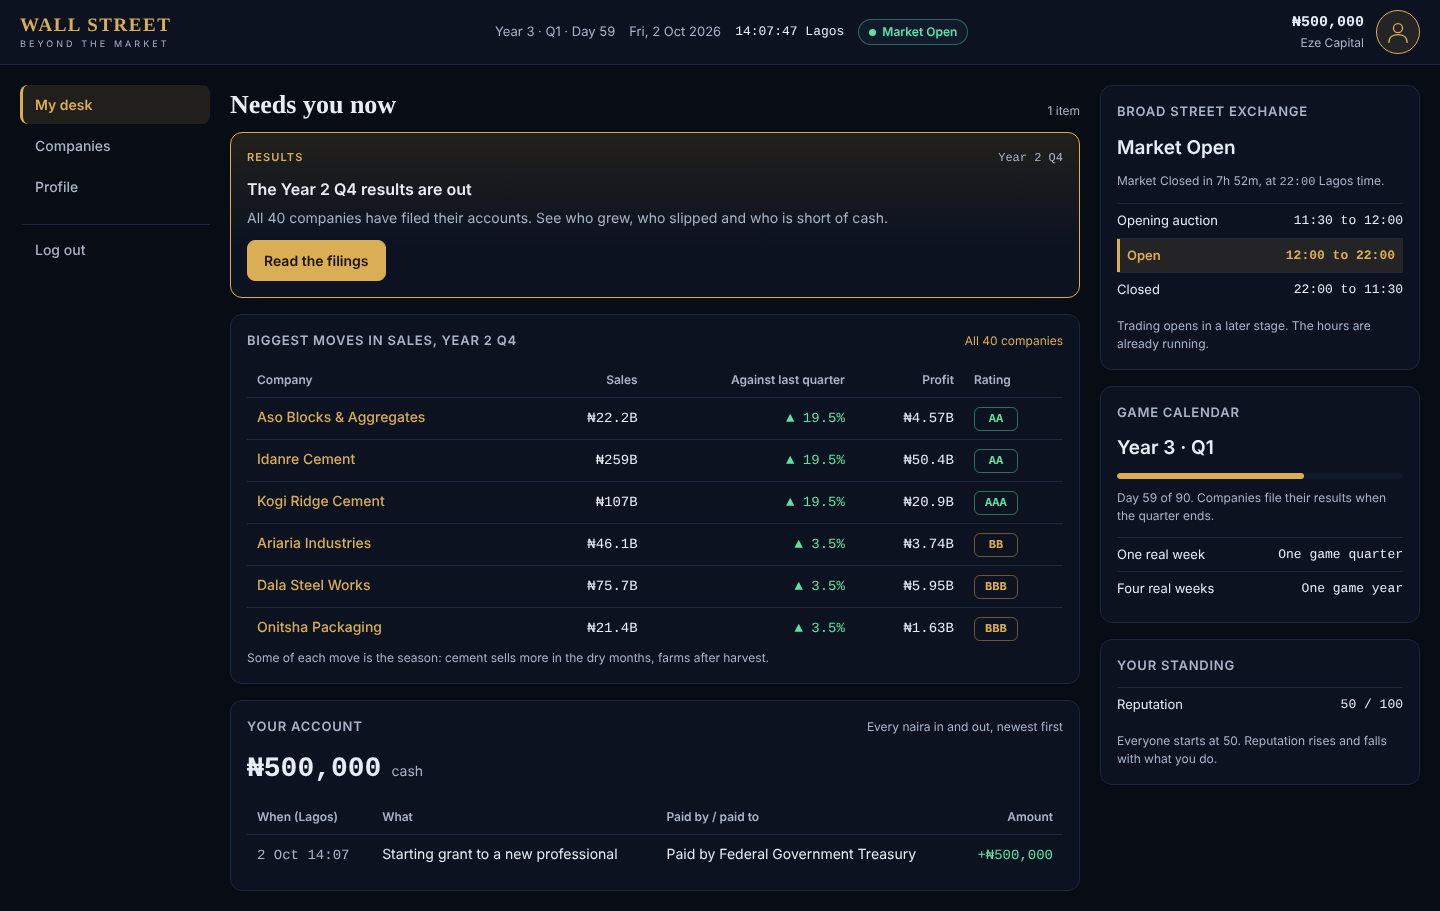
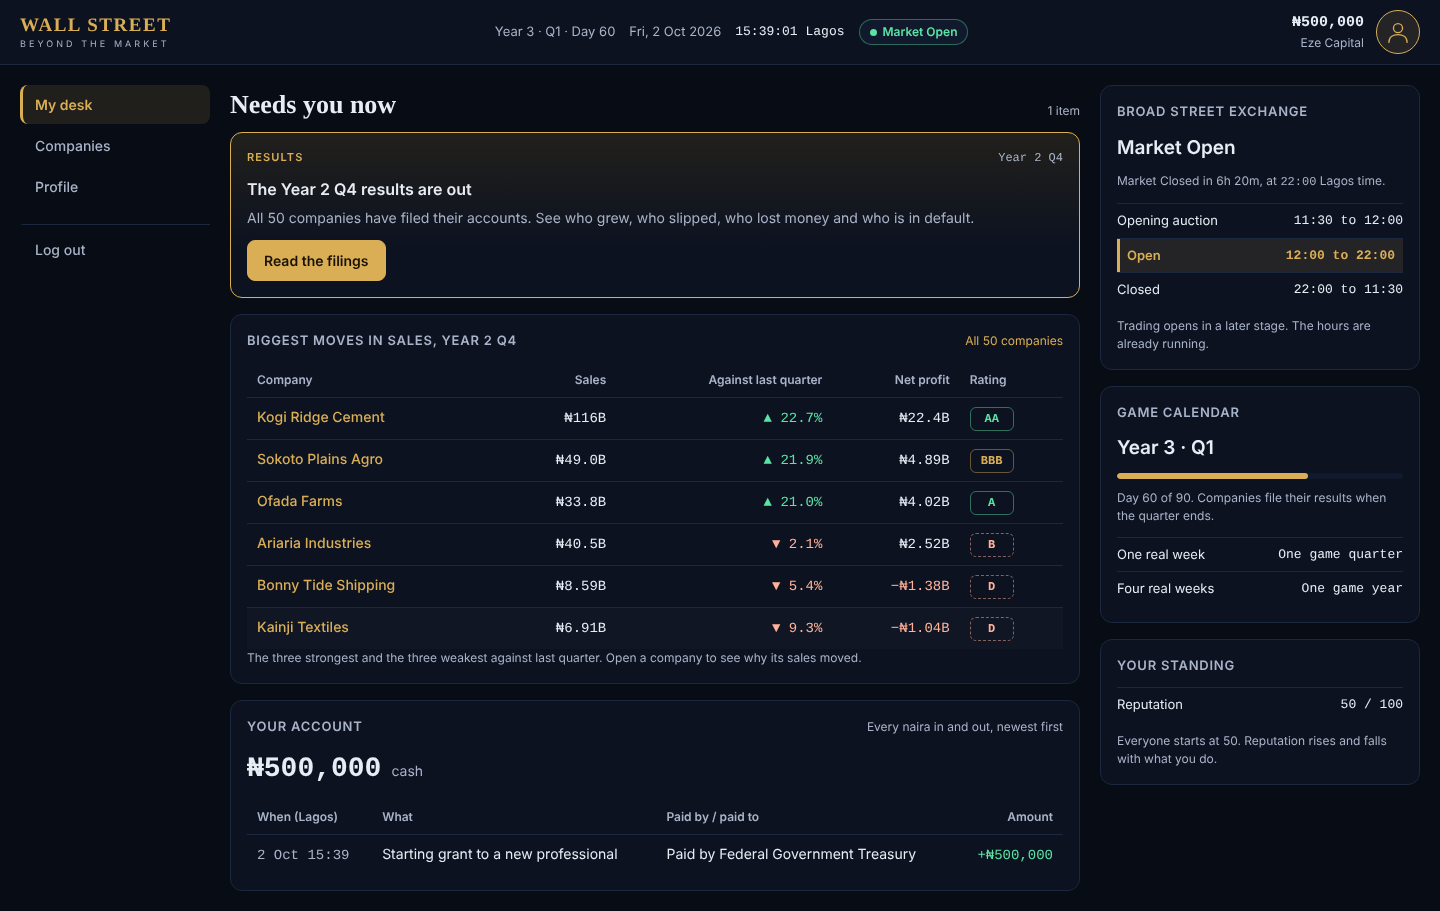
Close the loopholes found in the second review, and update the stage report
- An older world is given a random secret when upgraded; the database refuses
  a short one; quarters will not close without one
- A chosen world secret must be at least 32 characters
- Fortune can never make sales negative
- A missed loan repayment caps a rating at CCC
- A business that produces no EBITDA cannot rate highly, debts or no debts
- Older filings without EBITDA still show it
- Companies meant to be shrinking now shrink

diff --git a/web/src/Company.tsx b/web/src/Company.tsx
@@ -251,8 +251,11 @@ export function CompanyRail({ ticker, onLoggedOut }: { ticker: string; onLoggedO
             </div>
             <div className="muted small">
               Owed to {debt.lender}. Interest {formatPercent(debt.annual_rate_bps)} a year.{" "}
-              {debt.repayment === "bullet" ? "Repaid in one go in " : "Repaid a little each quarter until "}
-              {periodLabel(debt.maturity_period)}.
+              {debt.maturity_period <= latest.period
+                ? debt.maturity_period <= 0
+                  ? "It should have been repaid before the game began, and has not been."
+                  : `It should have been repaid by ${periodLabel(debt.maturity_period)}, and has not been.`
+                : `${debt.repayment === "bullet" ? "Repaid in one go in" : "Repaid a little each quarter until"} ${periodLabel(debt.maturity_period)}.`}
             </div>
           </div>
         ))}

diff --git a/tests/test_loopholes.py b/tests/test_loopholes.py
@@ -622,3 +622,81 @@ def test_the_database_itself_allows_one_player_per_mailbox(client, player, db):
             " VALUES ('Ada+2@example.com', 'ada@example.com', 'Copy', 'copy', 'x', now())"
         )
     assert refused.value.diag.constraint_name == "players_email_key_unique"
+
+
+# ---------------------------------------------------------------------------
+# Good and bad quarters: can a player know next quarter in advance?
+# (Second independent review, 2 October 2026.)
+# ---------------------------------------------------------------------------
+
+def test_a_world_cannot_be_created_with_a_short_guessable_secret(db):
+    from simulation import genesis
+    from tests.conftest import WORLD_START
+    with psycopg_connect_empty() as empty:
+        for weak in ("", "7", "password", "a" * 31):
+            if weak == "":
+                continue                                       # empty means "choose a random one"
+            with pytest.raises(ValueError):
+                genesis.create_world(empty, WORLD_START, weak)
+        assert empty.execute("SELECT count(*) FROM world_state").fetchone()[0] == 0
+
+
+def psycopg_connect_empty():
+    """A connection to a database that has the tables but no world yet."""
+    import psycopg
+    from tests.conftest import _TEMPLATES, _admin, _recreate, _url
+    name = "wsbm_test_no_world"
+    with _admin() as admin:
+        _recreate(admin, name, _TEMPLATES["empty"])
+    return psycopg.connect(_url(name), autocommit=True)
+
+
+def test_a_world_made_without_a_chosen_secret_gets_a_long_random_one():
+    from simulation import genesis
+    from tests.conftest import WORLD_START
+    seeds = []
+    for _ in range(2):
+        with psycopg_connect_empty() as empty:
+            genesis.create_world(empty, WORLD_START)
+            seeds.append(empty.execute("SELECT fortune_seed FROM world_state").fetchone()[0])
+    assert all(len(seed) >= 32 for seed in seeds) and seeds[0] != seeds[1]
+
+
+def test_the_database_refuses_a_world_with_a_short_secret(db):
+    with psycopg_connect_empty() as empty:
+        with pytest.raises(Exception) as refused:
+            empty.execute("INSERT INTO world_state (world_start, company_tax_bps, fortune_seed) VALUES (now(), 3000, 'short')")
+        assert refused.value.diag.constraint_name == "world_secret_is_long"
+
+
+def test_a_world_from_before_fortunes_existed_is_given_a_secret_when_it_is_upgraded():
+    """Without this, an older world's fortunes could be worked out from the game's code alone."""
+    import psycopg
+    from pathlib import Path
+    from tests.conftest import _admin, _recreate, _url
+    name = "wsbm_test_no_world"
+    with _admin() as admin:
+        _recreate(admin, name)
+    migrations = sorted(Path("database/migrations").glob("*.sql"))
+    with psycopg.connect(_url(name), autocommit=True) as old:
+        for path in migrations[:4]:
+            old.execute(path.read_text())
+        old.execute("INSERT INTO world_state (world_start, company_tax_bps) VALUES (now(), 3000)")
+        old.execute(migrations[4].read_text())
+        assert len(old.execute("SELECT fortune_seed FROM world_state").fetchone()[0]) >= 32
+
+
+def test_quarters_cannot_be_closed_for_a_world_with_no_secret(db):
+    from simulation import quarters
+    with pytest.raises(ledger.LedgerError):
+        quarters._close_period(db, 1, 3000, "")
+
+
+def test_fortune_can_never_make_sales_negative(db, monkeypatch):
+    from simulation import quarters
+    from simulation import world_data
+    from tests.conftest import after_quarters
+    monkeypatch.setattr(world_data, "SECTOR_VOLATILITY_BPS", 30_000)        # absurd on purpose
+    assert quarters.close_due_quarters(db, after_quarters(6)) == [1, 2, 3, 4, 5, 6]
+    assert db.execute("SELECT count(*) FROM company_results WHERE revenue < 0").fetchone()[0] == 0
+    assert ledger.audit(db) == []

diff --git a/simulation/companies.py b/simulation/companies.py
@@ -65,7 +65,7 @@ class Context:
     public: UUID
     treasury: UUID
     tax_bps: int
-    fortune_seed: str = ""
+    fortune_seed: str
 
 
 def fortune_bps(seed: str, subject: str, period: int, what: str, size_bps: int) -> int:
@@ -228,7 +228,9 @@ def close_company_quarter(conn: Connection, company: dict, period: int, ctx: Con
     sector_fortune = fortune_bps(ctx.fortune_seed, company["sector"], period, "demand", data.SECTOR_VOLATILITY_BPS)
     own_fortune = fortune_bps(ctx.fortune_seed, company["ticker"], period, "sales", company["volatility_bps"])
     cost_fortune = fortune_bps(ctx.fortune_seed, company["ticker"], period, "costs", company["volatility_bps"] // 3)
-    planned_revenue = apply_bps(apply_bps(apply_bps(base_revenue, season), BPS + sector_fortune), BPS + own_fortune)
+    planned_revenue = max(
+        apply_bps(apply_bps(apply_bps(base_revenue, season), BPS + sector_fortune), BPS + own_fortune), 0
+    )
     ledger.pay_up_to(
         conn, payer=ctx.public, receiver=account, wanted=planned_revenue,
         kind="customer_revenue", memo=f"{name}: sales to customers, {label}", period=period,
@@ -281,6 +283,7 @@ def close_company_quarter(conn: Connection, company: dict, period: int, ctx: Con
 
     # 5. Repay the debt that is due.
     principal_overdue = 0
+    repayments_missed = 0
     for debt in debts:
         due = principal_due(debt["principal_outstanding"], debt["repayment"], debt["maturity_period"], period)
         paid = ledger.pay_up_to(
@@ -296,7 +299,8 @@ def close_company_quarter(conn: Connection, company: dict, period: int, ctx: Con
         if period >= debt["maturity_period"]:
             principal_overdue += debt["principal_outstanding"] - paid
         if paid < due:
-            notes.append(f"It could not repay all of the debt due this quarter on {debt['name']}.")
+            repayments_missed += due - paid
+            notes.append(f"It could not repay all of the debt due this quarter on its {debt['name']}.")
 
     payables = _row(
         conn, "SELECT coalesce(sum(amount_outstanding), 0)::bigint AS owed FROM company_payables WHERE company_id = %s",
@@ -370,6 +374,7 @@ def close_company_quarter(conn: Connection, company: dict, period: int, ctx: Con
     drivers = {
         "revenue": _revenue_causes(company, season, sector_fortune, own_fortune, revenue, planned_revenue),
         "notes": notes,
+        "repayments_missed": repayments_missed,
     }
 
     result = {
@@ -461,6 +466,8 @@ def build_figures(conn: Connection, company: dict, result: dict) -> dict:
         "notes": {
             "shares_in_issue": result["shares_in_issue"],
             "principal_overdue": result["principal_overdue"],
+            # Scheduled loan repayments it failed to make this quarter.
+            "repayments_missed": result["drivers"].get("repayments_missed", 0),
             "borrowings": debts,
             "why_revenue": result["drivers"]["revenue"],
             "management_notes": result["drivers"]["notes"],

diff --git a/simulation/credit.py b/simulation/credit.py
@@ -45,7 +45,7 @@ def rate(figures: dict, trailing: list[dict]) -> tuple[str, list[str]]:
     # Failures first. These override everything else.
     if figures["notes"]["principal_overdue"] > 0:
         return "D", ["Debt that has passed its repayment date is still unpaid."]
-    if equity <= 0:
+    if equity <= 0 or assets <= 0:
         return "D", ["It owes more than everything it owns."]
 
     reasons: list[str] = []
@@ -113,20 +113,30 @@ def rate(figures: dict, trailing: list[dict]) -> tuple[str, list[str]]:
 
     rating = next((name for floor, name in _BANDS if points >= floor), "CCC")
 
-    # Debt against EBITDA: how many years of what the business produces it would
-    # take to repay everything it has borrowed. Heavy debt caps the rating.
-    if trailing and not financial and borrowings > 0:
+    # EBITDA: what the business itself produces before interest, tax and wear.
+    if trailing:
         yearly_ebitda = sum(i.get("ebitda", i["operating_profit"] + i["depreciation"]) for i in income) * 4 // len(income)
         if yearly_ebitda <= 0:
-            rating = _cap(rating, "CCC")
-            reasons.append("Its business produces no cash before interest and tax (EBITDA), yet it has debts to service.")
-        else:
+            # A business that produces nothing cannot be highly rated, debts or no debts.
+            if borrowings > 0 and not financial:
+                rating = _cap(rating, "CCC")
+                reasons.append("Its business produces no cash before interest and tax (EBITDA), yet it has debts to service.")
+            else:
+                rating = _cap(rating, "B")
+                reasons.append("Its business produces no cash before interest and tax (EBITDA).")
+        elif borrowings > 0 and not financial:
+            # How many years of EBITDA it would take to repay everything it has borrowed.
             years = borrowings / yearly_ebitda
             reasons.append(f"Its borrowings equal {years:.1f} years of EBITDA.")
             if years > 6:
                 rating = _cap(rating, "B")
             elif years > 4:
                 rating = _cap(rating, "BB")
+
+    # A missed loan repayment is one step from default.
+    if figures["notes"].get("repayments_missed", 0) > 0:
+        rating = _cap(rating, "CCC")
+        reasons.insert(0, "It missed a loan repayment that fell due this quarter.")
 
     # Unpaid bills cap the rating, however strong the rest looks.
     if sheet["payables"] > 0 and SCALE.index(rating) < SCALE.index("CCC"):

diff --git a/simulation/world_data.py b/simulation/world_data.py
@@ -152,20 +152,20 @@ COMPANIES: tuple[Company, ...] = (
     # purpose, so that credit ratings run all the way from AAA to D from day one. ---
     # Already in default: a loan has passed its repayment date unpaid.
     Company("BTS", "Bonny Tide Shipping", "transport", PORT_HARCOURT, 40_000, lender="OBB",
-            trend_bps=-150, volatility_bps=900, cost_extra_bps=500, opex_times_bps=12_000,
+            trend_bps=-500, volatility_bps=900, cost_extra_bps=500, opex_times_bps=12_000,
             debt_times_bps=20_000, cash_times_bps=2_500, overdue_bps=3_000),
     Company("KTX", "Kainji Textiles", "manufacturing", KANO, 35_000, lender="ZCB",
-            trend_bps=-250, volatility_bps=800, cost_extra_bps=600, opex_times_bps=12_500,
+            trend_bps=-600, volatility_bps=800, cost_extra_bps=600, opex_times_bps=12_500,
             debt_times_bps=22_000, cash_times_bps=2_000, overdue_bps=2_500),
     # Behind on their bills.
     Company("ZRH", "Zuma Rock Hotels", "real_estate", ABUJA, 28_000, lender="HMB",
-            trend_bps=-50, volatility_bps=1_000, cost_extra_bps=400, opex_times_bps=14_000,
+            trend_bps=-450, volatility_bps=1_000, cost_extra_bps=400, opex_times_bps=14_000,
             debt_times_bps=16_000, cash_times_bps=1_500, unpaid_bills_bps=2_500),
     Company("OGA", "Oguta Airways", "transport", LAGOS, 120_000, lender="KCB",
             trend_bps=0, volatility_bps=1_200, cost_extra_bps=900, opex_times_bps=11_000,
             debt_times_bps=17_000, cash_times_bps=1_500, unpaid_bills_bps=2_000),
     Company("CPM", "Calabar Paper Mills", "manufacturing", ABA, 22_000, lender="OTB",
-            trend_bps=-200, volatility_bps=700, cost_extra_bps=900, opex_times_bps=12_000,
+            trend_bps=-550, volatility_bps=700, cost_extra_bps=900, opex_times_bps=12_000,
             debt_times_bps=15_000, cash_times_bps=2_000, unpaid_bills_bps=1_500),
     # Weak, but paying their way.
     Company("LFN", "Lekki Fibre Networks", "telecoms", LAGOS, 60_000, lender="IKB",
@@ -186,6 +186,7 @@ COMPANIES: tuple[Company, ...] = (
 
 # Whole sectors have good and bad quarters too: up to this far above or below trend.
 SECTOR_VOLATILITY_BPS = 300
+assert 0 <= SECTOR_VOLATILITY_BPS < 5_000
 
 # --- Opening money (design document, section 10) ---
 # The Central Bank issues the opening money. From then on, no new naira appears.

diff --git a/server/main.py b/server/main.py
@@ -402,7 +402,8 @@ def my_movements(
 # ---------------------------------------------------------------------------
 
 def _world(conn: Connection) -> dict | None:
-    return conn.execute("SELECT * FROM world_state").fetchone()
+    # Named columns only: the world's secret is never read into a request.
+    return conn.execute("SELECT world_start, last_closed_period FROM world_state").fetchone()
 
 
 @app.get("/api/world/clock", response_model=ClockResponse)
@@ -447,6 +448,14 @@ def _amounts_as_text(value, key: str | None = None):
     if isinstance(value, int) and not isinstance(value, bool) and key not in _NOT_AMOUNTS:
         return str(value)
     return value
+
+
+def _with_ebitda(figures: dict) -> dict:
+    """Filings made before EBITDA was filed still show it: it is worked out from what they did file."""
+    income = figures["income_statement"]
+    if "ebitda" not in income:
+        income["ebitda"] = income["operating_profit"] + income["depreciation"]
+    return figures
 
 
 @app.get("/api/companies", response_model=CompaniesResponse)
@@ -531,7 +540,7 @@ def get_company(
                 period=r["period"], period_label=clock.period_label(r["period"]), version=r["version"],
                 amended=r["version"] > 1, filed_by=r["filed_by"], filed_at=r["filed_at"],
                 credit_rating=r["credit_rating"], rating_reasons=r["rating_reasons"],
-                figures=_amounts_as_text(r["figures"]),
+                figures=_amounts_as_text(_with_ebitda(r["figures"])),
             )
             for r in reversed(filed)
         ],

diff --git a/tests/test_companies_api.py b/tests/test_companies_api.py
@@ -117,3 +117,18 @@ def test_nothing_private_leaks_through_the_company_pages(client, player):
     text = client.get("/api/companies").text + client.get("/api/companies/IKB").text
     for secret in ("ledger_totals", "base_revenue", "base_opex", "account_id", "password", "@example.com", "drivers"):
         assert secret not in text
+
+
+def test_a_filing_from_before_ebitda_was_filed_still_shows_it(client, player, db):
+    from psycopg.types.json import Jsonb
+    company_id = db.execute("SELECT id FROM companies WHERE ticker = 'IDC'").fetchone()[0]
+    figures = db.execute("SELECT figures FROM company_reports WHERE company_id = %s AND period = 8", (company_id,)).fetchone()[0]
+    expected = figures["income_statement"].pop("ebitda")
+    db.execute(
+        "INSERT INTO company_reports (company_id, period, version, figures, credit_rating, rating_reasons, filed_by)"
+        " VALUES (%s, 8, 2, %s, 'A', %s, 'Company management')", (company_id, Jsonb(figures), Jsonb(["Old style"])),
+    )
+    latest = client.get("/api/companies/IDC").json()["reports"][-1]
+    assert latest["version"] == 2 and latest["figures"]["income_statement"]["ebitda"] == str(expected)
+    listed = [c for s in client.get("/api/companies").json()["sectors"] for c in s["companies"] if c["ticker"] == "IDC"][0]
+    assert listed["ebitda_kobo"] == str(expected)

diff --git a/tests/test_formulas.py b/tests/test_formulas.py
@@ -126,6 +126,22 @@ class TestCreditRating:
         del filing["income_statement"]["ebitda"]
         assert credit.rate(filing, [filing])[0] == "AAA"
 
+    def test_a_loss_making_business_cannot_rate_highly_even_with_no_debts(self):
+        filing = _filing(balance_sheet__borrowings=0, income_statement__interest_expense=0,
+                         income_statement__ebitda=-400, income_statement__operating_profit=-450,
+                         income_statement__net_profit=-450)
+        assert credit.SCALE.index(credit.rate(filing, [filing])[0]) >= credit.SCALE.index("B")
+
+    def test_a_missed_loan_repayment_caps_the_rating_at_ccc(self):
+        filing = _filing(notes__repayments_missed=1)
+        rating, reasons = credit.rate(filing, [filing])
+        assert rating == "CCC"
+        assert reasons[0] == "It missed a loan repayment that fell due this quarter."
+
+    def test_a_filing_showing_nothing_owned_is_a_default_not_a_crash(self):
+        filing = _filing(balance_sheet__total_assets=0, balance_sheet__customer_funds=10)
+        assert credit.rate(filing, [filing])[0] == "D"
+
     def test_debt_past_its_date_is_a_default(self):
         filing = _filing(notes__principal_overdue=1)
         assert credit.rate(filing, [filing])[0] == "D"

diff --git a/simulation/genesis.py b/simulation/genesis.py
@@ -79,6 +79,10 @@ def create_world(conn: Connection, world_start: datetime, fortune_seed: str | No
     """
     if world_start.tzinfo is None:
         raise ValueError("The world's start time must carry its time zone.")
+    if fortune_seed is not None and len(fortune_seed) < 32:
+        # A short secret could be found by trying every possibility against one
+        # quarter of published results. After that, every future quarter is known.
+        raise ValueError("The world's secret must be at least 32 characters. Leave it empty for a random one.")
     with conn.transaction():
         conn.execute("SELECT pg_advisory_xact_lock(%s)", (_GENESIS_LOCK,))
         created = conn.execute("SELECT 1 FROM world_state").fetchone() is None

diff --git a/simulation/quarters.py b/simulation/quarters.py
@@ -59,7 +59,9 @@ def _received(conn: Connection, account, period: int) -> int:
     return ledger._first(row)
 
 
-def _close_period(conn: Connection, period: int, tax_bps: int, fortune_seed: str = "") -> None:
+def _close_period(conn: Connection, period: int, tax_bps: int, fortune_seed: str) -> None:
+    if len(fortune_seed) < 32:
+        raise ledger.LedgerError("The world has no secret. Quarters cannot be closed without one.")
     label = clock.period_label(period)
     public = ledger.account_id(conn, ledger.PUBLIC)
     treasury = ledger.account_id(conn, ledger.TREASURY)

diff --git a/tests/test_world.py b/tests/test_world.py
@@ -186,7 +186,7 @@ def test_a_troubled_start_still_balances_and_explains_itself(db):
 
 
 def test_the_worlds_secret_is_set_and_can_never_be_changed(db):
-    assert db.execute("SELECT fortune_seed FROM world_state").fetchone()[0] == "a-fixed-seed-so-tests-repeat"
+    assert db.execute("SELECT fortune_seed FROM world_state").fetchone()[0] == "a-fixed-secret-so-that-every-test-run-repeats"
     with pytest.raises(Exception) as refused:
         db.execute("UPDATE world_state SET fortune_seed = 'one-i-chose'")
     assert refused.value.diag.constraint_name == "world_is_permanent"

diff --git a/tests/conftest.py b/tests/conftest.py
@@ -64,7 +64,7 @@ def _templates():
 
         _recreate(admin, _TEMPLATES["fresh"], _TEMPLATES["empty"])
         with psycopg.connect(_url(_TEMPLATES["fresh"]), autocommit=True) as conn:
-            genesis.create_world(conn, WORLD_START, fortune_seed="a-fixed-seed-so-tests-repeat")
+            genesis.create_world(conn, WORLD_START, fortune_seed="a-fixed-secret-so-that-every-test-run-repeats")
 
         _recreate(admin, _TEMPLATES["eight"], _TEMPLATES["fresh"])
         with psycopg.connect(_url(_TEMPLATES["eight"]), autocommit=True) as conn:
